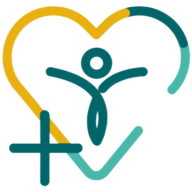
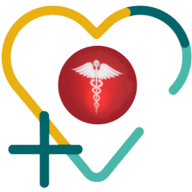
update

diff --git a/resources/views/layouts/nav.blade.php b/resources/views/layouts/nav.blade.php
@@ -1,7 +1,7 @@
 <nav class="navbar navbar-expand-lg bg-white navbar-light sticky-top p-0">
   <a href="{{ route('welcome') }}" class="navbar-brand d-flex align-items-center px-4 px-lg-5">
     <!-- <h2 class="m-0 text-primary">LOGO</h2> -->
-    <img src="{{asset('assets/logo.png')}}" height="75px" alt="">
+    <img src="{{asset('assets/logo2.png')}}" height="75px" alt="">
   </a>
   <button type="button" class="navbar-toggler me-4" data-bs-toggle="collapse" data-bs-target="#navbarCollapse">
     <span class="navbar-toggler-icon"></span>
@@ -32,7 +32,7 @@
       
 
     </div>
-    <a href="{{ route('appointments') }}" class="btn btn-green py-4 px-lg-4 d-none d-lg-block">IDŐPONTFOGLALÁS<i
+    <a href="{{ route('appointments') }}" class="btn btn-green py-4 px-lg-4 d-none d-lg-block" style="border-radius: 8px 0px 0px 8px !important;">IDŐPONTFOGLALÁS<i
         class="fa fa-arrow-right ms-3"></i></a>
   </div>
 </nav>

diff --git a/resources/views/layouts/footer.blade.php b/resources/views/layouts/footer.blade.php
@@ -4,7 +4,7 @@
     <div class="row gy-4">
       <div class="col-lg-3 col-md-6 footer-about">
         <a href="index.html" class="d-flex align-items-center">
-          <img src="{{ asset('assets/img/logo_footer.png') }}" height="80px" alt="">
+          <img src="{{ asset('assets/img/logo_footer2.png') }}" height="80px" alt="">
         </a>
         <div class="footer-contact pt-3">
           <p><strong>Cím:</strong> 7030 Paks, Vasút utca 10.</p>
